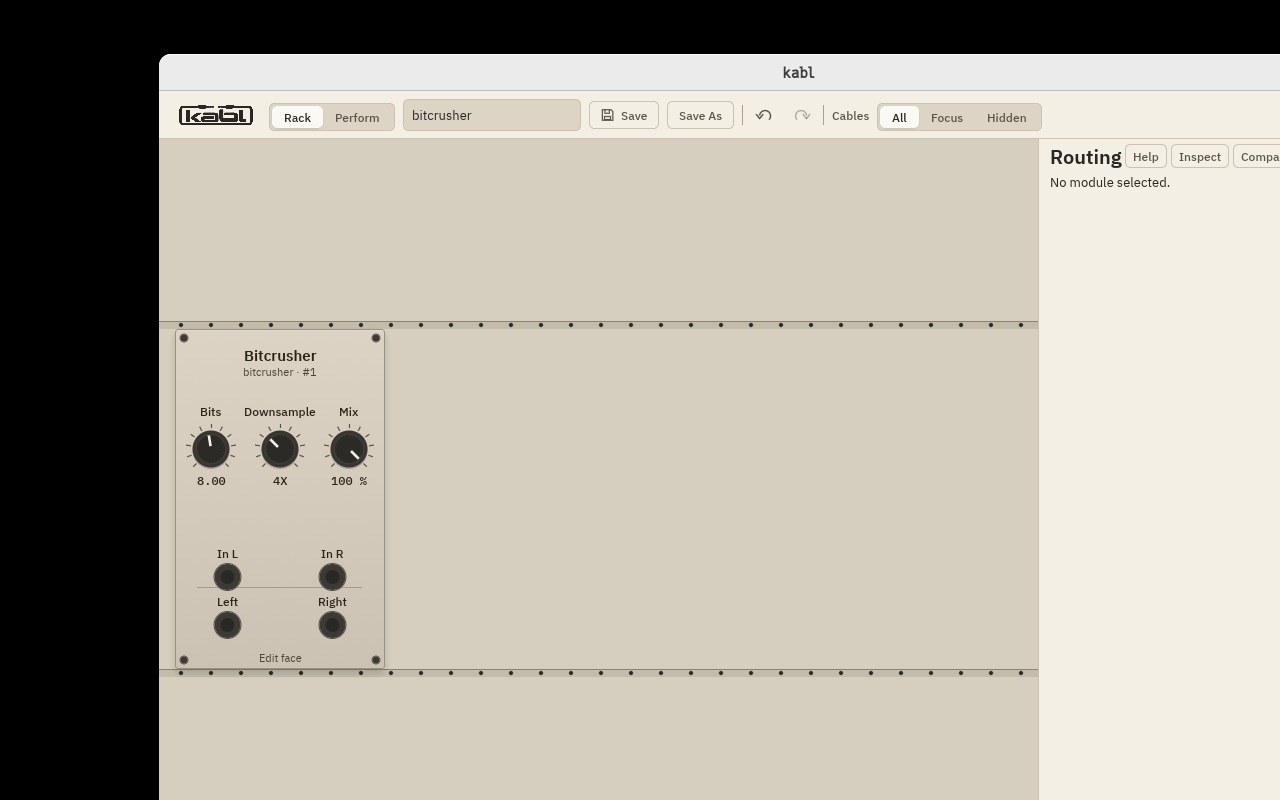
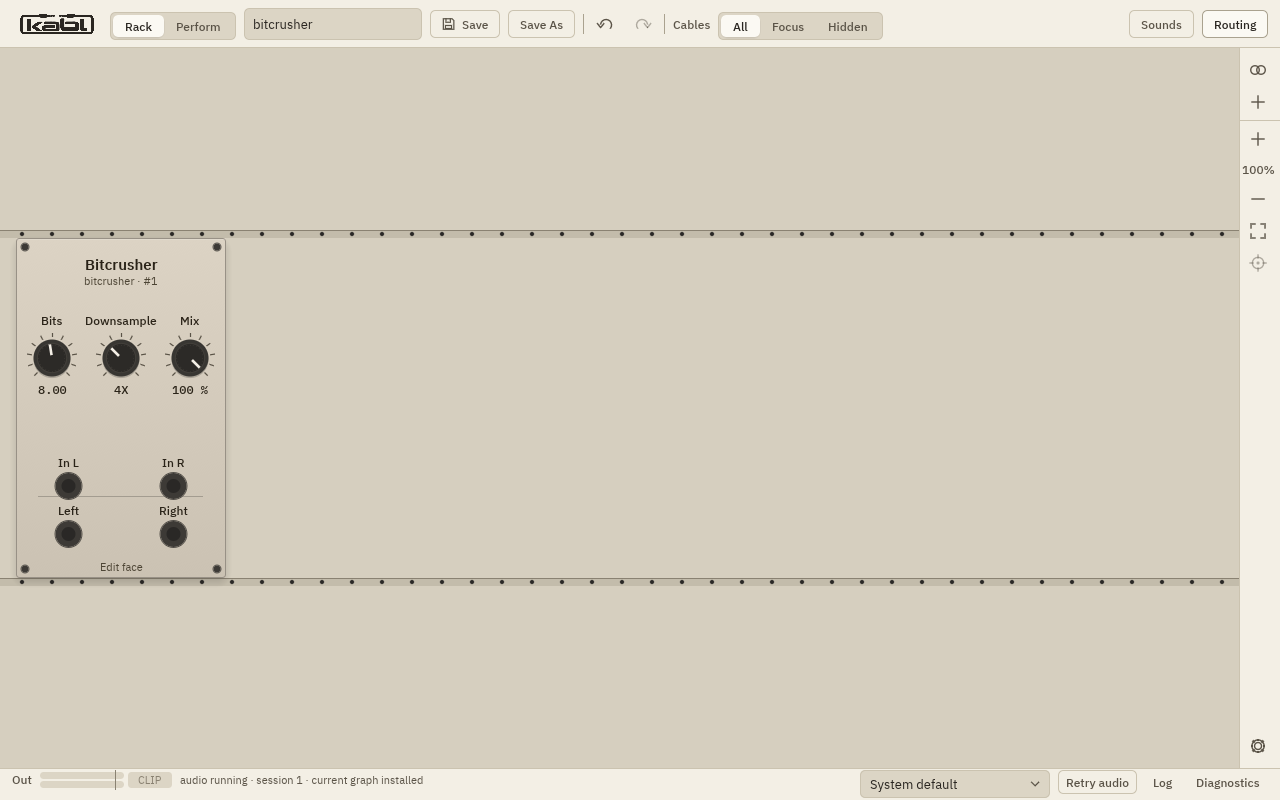
Theme captures, side-by-side media, effect faces re-taken in both modes, bench and README
Claude-Session: https://claude.ai/code/session_01K1g8cKAR2ph9Ve6fxqn2aY

diff --git a/docs/themes/scripts/sidebyside.py b/docs/themes/scripts/sidebyside.py
@@ -1,0 +1,24 @@
+#!/usr/bin/env python3
+"""Join the A and B captures of each scene into one side-by-side WebP.
+
+    python3 docs/themes/scripts/sidebyside.py CAPTUREDIR OUTDIR
+CAPTUREDIR holds <scene>/<theme-id>-<light|dark>/<shot>.png as written by capture.sh and
+matrix.sh. Writes OUTDIR/<scene>-<light|dark>.webp, Satin Studio on the left."""
+import sys
+from pathlib import Path
+from PIL import Image
+
+root, out = Path(sys.argv[1]), Path(sys.argv[2])
+out.mkdir(parents=True, exist_ok=True)
+for scene in sorted(p for p in root.iterdir() if p.is_dir() and p.name != "faces"):
+    for mode in ("light", "dark"):
+        pair = []
+        for theme in ("kabl.satin", "kabl.lacquer"):
+            shots = list((scene / f"{theme}-{mode}").glob("shot.png"))
+            if shots:
+                pair.append(Image.open(shots[0]).convert("RGB"))
+        if len(pair) == 2:
+            sheet = Image.new("RGB", (pair[0].width + pair[1].width + 8, pair[0].height), "white")
+            sheet.paste(pair[0], (0, 0))
+            sheet.paste(pair[1], (pair[0].width + 8, 0))
+            sheet.save(out / f"{scene.name}-{mode}.webp", quality=88)

diff --git a/docs/themes/HANDOVER.md b/docs/themes/HANDOVER.md
@@ -1,0 +1,21 @@
+# Theme loader, theme B, font, capture tooling: handover
+
+Branch `claude/theme-b` (from origin/master), worktree `.worktrees/functional-cables`. Report to "Kabl overseer", do not merge, stop when done. Caveman and Ponytail ultra in chat; code, commits and PR text normal English. Stay under 50% context.
+
+## Task as received (condensed)
+Build a theme loader (declarative files, untrusted input: validate, cap size, fall back per value with a message, partial themes work); live theme switching in the interface, remembered across launches for standalone and plugin; theme B "Lacquer and Light" built to `docs/design/app-target/media/b-lacquer/` with every slot filled, then check every surface under B and list hard-coded spots (fix small Style substitutions; report, do not fix, anything that means reworking drawing in `rack.rs`, `kit/face.rs` or cable drawing); contrast test (WCAG AA) for both built-ins; drop the egui default fonts and use an OFL typeface (overseer: keep IBM Plex, no alternative candidates unless Kosta asks); fix the capture script's dark step ("no target theme:dark") so any theme can be captured by name and re-take the effect-module dark captures. Out of scope: theme editor, a third theme, cable pattern editor restyle beyond following the theme, cable management, effect-module live displays, presets. Constraints: frame time unchanged (median < 8 ms, max < 16 ms), behaviour unchanged, no new dependency unless needed, CI green (fmt, strict clippy, tests, package, validator, licenses), check in the standalone and in the plugin at 1180x680 in REAPER. Agents 1 (cables, About box) and 2 (wavetable editor) work in `rack.rs`, `kit/face.rs`, cable drawing: keep edits there minimal; merge origin/master before the end.
+
+## Done
+See `git log claude/theme-b`. Loader and theme B (`crates/ui/src/style/{load,builtin}.rs`), switching and persistence (`UiState::use_user_prefs`, settings menu), default fonts off and glyph test (`theme_tests.rs`), tabs and accent-pill recipes, theme-aware face surfaces, capture tooling (`docs/themes/scripts/`), docs (`THEMING.md` section 13, `docs/themes/README.md`), example user theme.
+
+## Remaining
+Nothing assigned beyond the final report to the overseer: what was built, format and folder, hard-coded list (fixed and not), contrast, bench, test totals, capture paths, CI link, gaps. Then stop.
+
+## Facts that cost effort
+- The "no target theme:dark" failure did not reproduce on current master: `click view-menu` then `click theme:dark` works with the release binary. The robust route is `KABL_THEME=ID:dark` (no menu), used by `docs/themes/scripts/capture.sh`.
+- Bash guard in a worktree session refuses heredocs and compound commands: use Write/Edit and plain commands. Python heredocs sometimes pass, sometimes not.
+- egui `Fonts::has_glyph` is unreliable with a single embedded font (the replacement face is the first face), so the glyph test reads the TTF cmaps with `skrifa` (dev-dependency, already in the lock file).
+- REAPER host check: copy of the earlier faces job's `start.sh` using Xvfb :248, a throwaway `KABL_CONFIG_DIR` with a `settings.toml`; close the VST scan dialog (Cancel) and the update notice with xdotool.
+
+## Working assumptions and open decisions for Kosta
+Theme choice is global per user (not per plugin instance, not in the patch). Slots no drawing code reads yet: `cable.*` (recipe, width, sag, glow, dimmed), `plug`, `face.out_plate`, `chrome.navigator`, `controls.row`, `rack` surface, `icons`. They are filled for B, but changing them has no visible effect until the drawing code reads them (cable drawing is agent 1's).

diff --git a/docs/themes/README.md b/docs/themes/README.md
@@ -13,6 +13,23 @@ The file format, the limits and what a theme cannot change are in `docs/design/a
 
 A theme file is treated as untrusted: it is capped at 64 KiB, every value is checked, and a bad value is replaced by the base theme's value with a message. A mode whose text would be hard to read (under 3:1 contrast) is ignored as a whole.
 
+## Captures
+
+`media/` has Satin Studio (left) and Lacquer and Light (right) side by side at 1440x900, light and dark: `simple-*` (reference patch), `dense-*` (Composition), `closeup-*` (FM voice with displays at 100%), `perform-*`, `pattern-*` (cable pattern editor). `effect-faces-<theme>-<mode>.webp` are contact sheets of the nine effect faces. `plugin-1180-*` are the CLAP editor in REAPER 7.75 (theme restored from `settings.toml`, then switched through the menu). `example-midnight-rose-*` is `example/midnight-rose.toml` loaded from the themes folder. The effect faces under `docs/effects-filters/faces/` are re-taken in Satin Studio, light and dark.
+
+## Frame time
+
+`KABL_BENCH_THEME=<id> cargo run --release -p kabl-ui --example bench_chrome 300 live` (dense Composition, 1440x900, rack only, displays animating, audio on; GPU not included). Switching a theme rebuilds one `Style` once; nothing is added per frame beyond a tab flag lookup and one contrast comparison per module palette.
+
+| theme, mode | median | p95 | max |
+|---|---|---|---|
+| Satin Studio light | 4.6 to 5.3 ms | 4.8 to 5.7 | 5.1 to 7.0 |
+| Satin Studio dark | 5.4 to 5.6 ms | 5.7 to 5.9 | 6.3 to 6.5 |
+| Lacquer and Light light | 4.2 to 4.3 ms | 4.5 | 4.7 to 5.1 |
+| Lacquer and Light dark | 4.5 ms | 4.8 to 5.1 | 5.2 to 8.9 |
+
+Three runs each, machine under moderate load (load average 3 to 5); heavily loaded runs earlier showed 10 to 14 ms medians for both themes alike.
+
 ## Capture tooling
 
 All scripts need `target/release/kabl-ui`, Xvfb and xdotool, and run from the repository root. `KABL_THEME=ID[:dark|light]` starts kabl in a theme without changing the remembered choice, so no menu clicking is involved.
